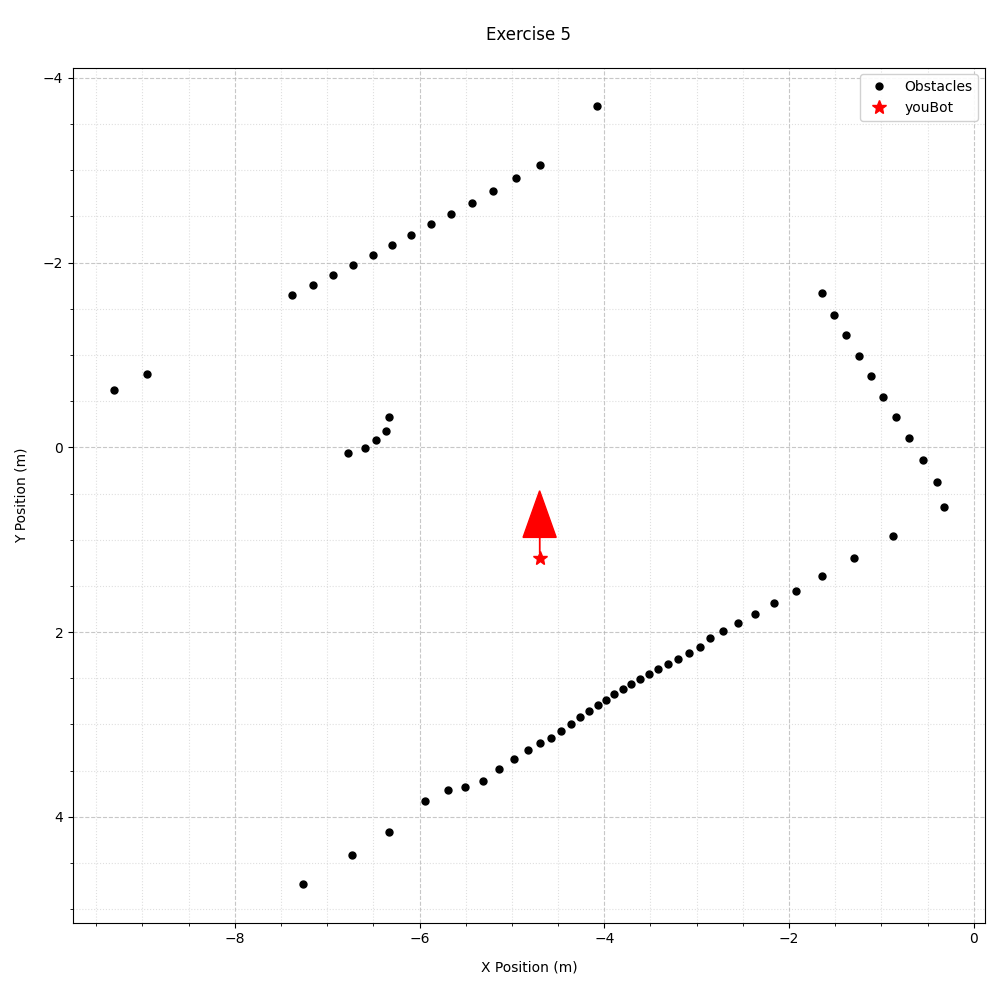
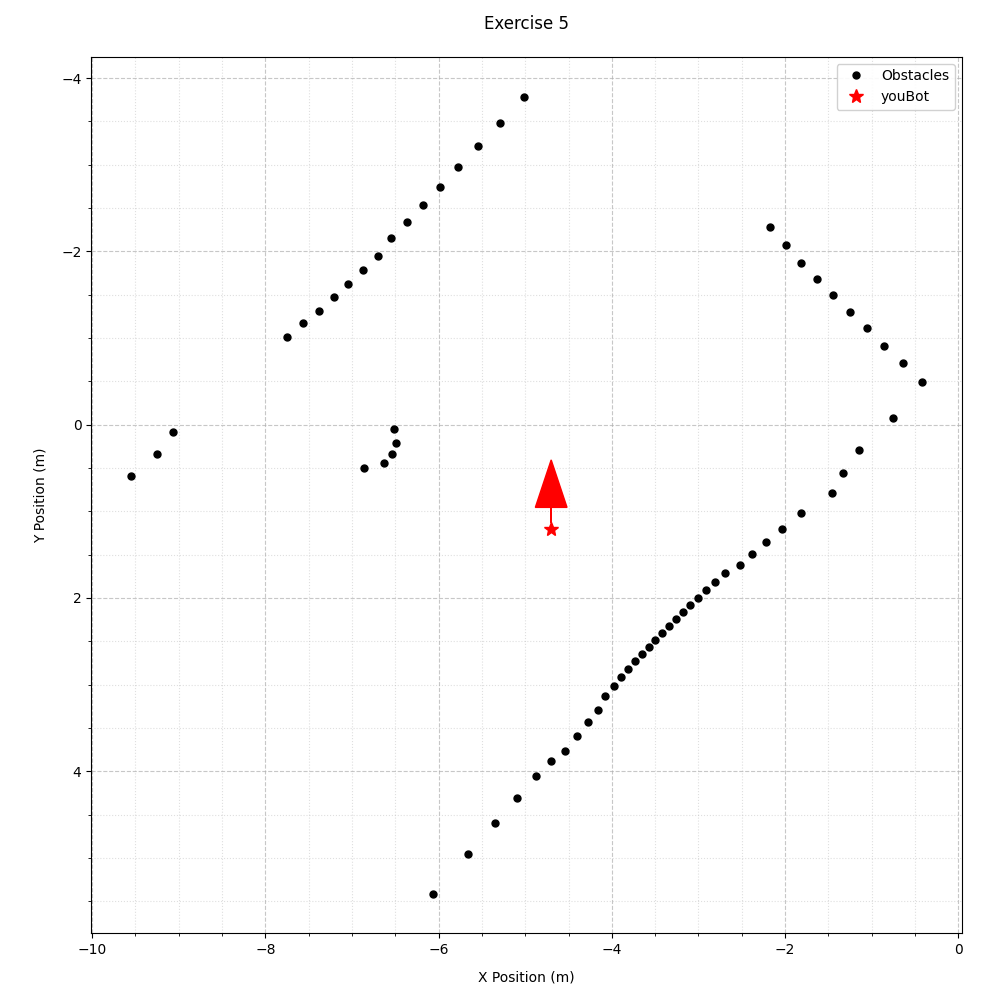
Exercise 5

diff --git a/controllers/pattern_movement_controller.py b/controllers/pattern_movement_controller.py
@@ -401,7 +401,7 @@ class PatternMovementController:
         print("\nAfter backward movement:")
         print(self.wheel_movement_controller.sensor_controller)
         plotter = ObstaclePlotter()
-        for _ in range(steps):
+        for step in range(steps):
             self.wheel_movement_controller.turn_right(
                 degree=angle_per_step, speed=speed
             )
@@ -446,5 +446,5 @@ class PatternMovementController:
         plotter.plot_obstacles(
             self.wheel_movement_controller.position.to_point2d_with_orientation(),
             self.wheel_movement_controller.sensor_controller.obstacles,
-            callbacks=[lambda: plotter.plot_ray_trace(position, closest_obstacle)],
+            callbacks=[lambda ax: plotter.plot_ray_trace(position, closest_obstacle)],
         )
